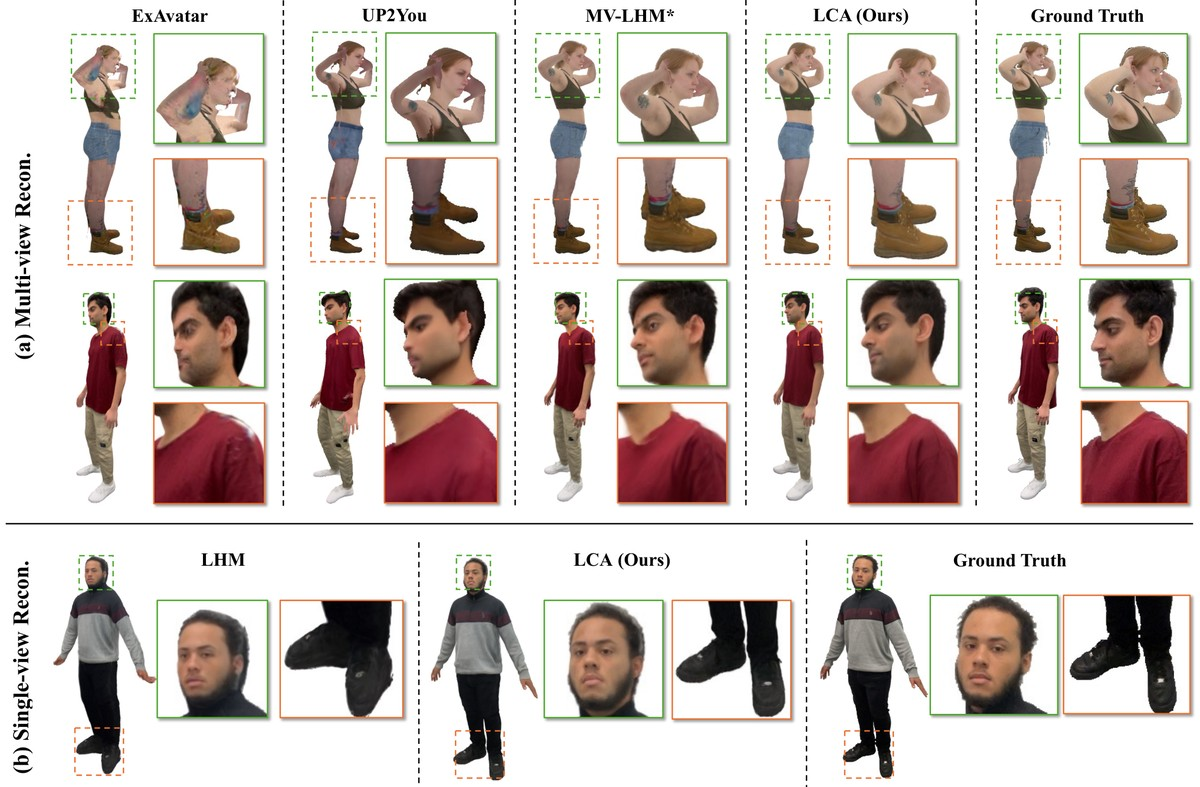
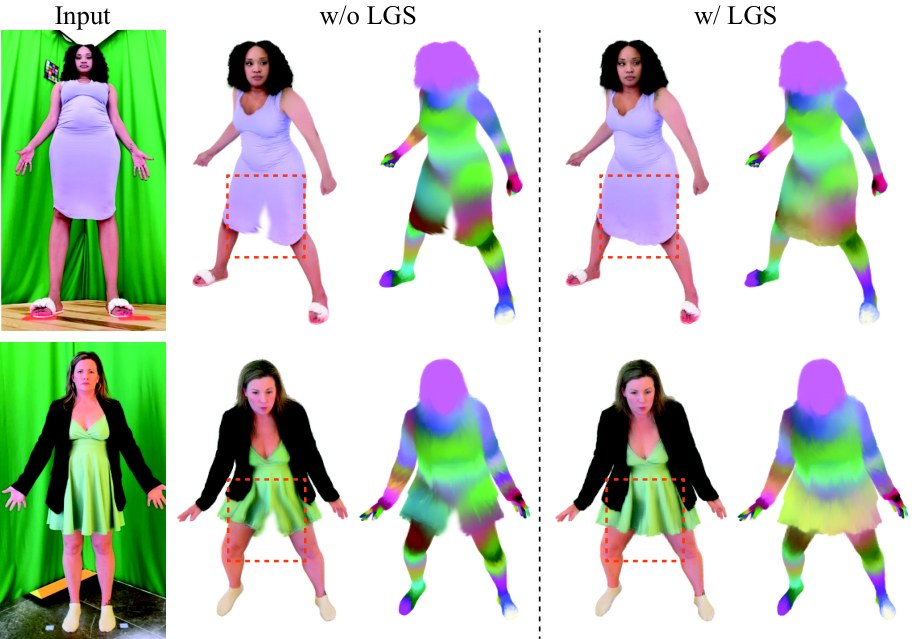
Underline own name (Zhongshi) in publication authors, LCA Gaussian deformer image (single-subject friendly)

diff --git a/layouts/partials/page_metadata_authors.html b/layouts/partials/page_metadata_authors.html
@@ -1,52 +1,54 @@
-{{/* Display author list. Only truncate for LCA (too many authors), keep others full */}}
+{{/* Display author list. Only truncate for LCA, keep others full, underscore (underline) self */}}
 {{- $taxonomy := "authors" }}
 {{- $isLCA := false }}
-{{- if .File }}
-  {{- if in .File.Path "large-scale-codec-avatars" }}{{- $isLCA = true }}{{- end }}
+{{- if .File }}{{ if in .File.Path "large-scale-codec-avatars" }}{{ $isLCA = true }}{{ end }}{{ end }}
+{{- if in .Title "Large-scale Codec Avatars" }}{{ $isLCA = true }}{{ end }}
+{{- if in (.Params.title | default "") "Large-scale Codec Avatars" }}{{ $isLCA = true }}{{ end }}
+
+{{- $isMe := false }}
+{{- $checkMe := func -}}
+{{- /* helper inline: check if string is me */ -}}
 {{- end }}
-{{- if in .Title "Large-scale Codec Avatars" }}{{- $isLCA = true }}{{- end }}
-{{- if in (.Params.title | default "") "Large-scale Codec Avatars" }}{{- $isLCA = true }}{{- end }}
 
 {{- if .Param $taxonomy }}
   {{- $terms := .GetTerms $taxonomy }}
   {{- $n := len $terms }}
   {{- if and $isLCA (gt $n 6) }}
-    {{- /* LCA special: show first 3 + et al. */}}
     {{- range $i, $author := first 3 $terms }}
-      {{- $highlight_name := .Page.Params.highlight_name | default false -}}
-      {{- if gt $i 0 }}, {{ end -}}
-      <span {{ if $highlight_name }}class="author-highlighted"{{end}}>
-        {{- if .RelPermalink -}}<a href="{{.RelPermalink}}">{{.LinkTitle}}</a>{{- else -}}{{ .LinkTitle }}{{- end -}}
+      {{- $highlight_name := .Page.Params.highlight_name | default false }}
+      {{- $name := .LinkTitle }}
+      {{- $isMeTerm := in $name "Zhongshi" }}
+      {{- if gt $i 0 }}, {{ end }}
+      <span {{ if $highlight_name }}class="author-highlighted"{{ end }} {{ if $isMeTerm }}style="text-decoration: underline; text-underline-offset: 3px;"{{ end }}>
+        {{- if .RelPermalink }}<a href="{{.RelPermalink}}" {{ if $isMeTerm }}style="text-decoration: underline; text-underline-offset: 3px;"{{ end }}>{{.LinkTitle}}</a>{{- else }}{{ if $isMeTerm }}<u>{{.LinkTitle}}</u>{{ else }}{{.LinkTitle}}{{ end }}{{- end }}
       </span>
-    {{- end -}}
-    <span>, et al.</span>
+    {{- end }}<span>, et al.</span>
   {{- else if gt $n 0 }}
     {{- range $index, $value := $terms }}
-      {{- $highlight_name := .Page.Params.highlight_name | default false -}}
-      {{- if gt $index 0 }}, {{ end -}}
-      <span {{ if $highlight_name }}class="author-highlighted"{{end}}>
-        {{- if .RelPermalink -}}<a href="{{.RelPermalink}}">{{.LinkTitle}}</a>{{- else -}}{{ .LinkTitle }}{{- end -}}
+      {{- $highlight_name := .Page.Params.highlight_name | default false }}
+      {{- $name := .LinkTitle }}
+      {{- $isMeTerm := in $name "Zhongshi" }}
+      {{- if gt $index 0 }}, {{ end }}
+      <span {{ if $highlight_name }}class="author-highlighted"{{ end }} {{ if $isMeTerm }}style="text-decoration: underline; text-underline-offset: 3px;"{{ end }}>
+        {{- if .RelPermalink }}<a href="{{.RelPermalink}}" {{ if $isMeTerm }}style="text-decoration: underline; text-underline-offset: 3px;"{{ end }}>{{ $name }}</a>{{- else }}{{ if $isMeTerm }}<u>{{ $name }}</u>{{ else }}{{ $name }}{{ end }}{{- end }}
       </span>
-      {{- if isset $.Params "author_notes" -}}
-        {{- with (index $.Params.author_notes $index) -}}<i class="author-notes fas fa-info-circle" data-toggle="tooltip" title="{{.}}"></i>{{- end -}}
-      {{- end -}}
-    {{- end -}}
+      {{- if isset $.Params "author_notes" }}{{ with (index $.Params.author_notes $index) }}<i class="author-notes fas fa-info-circle" data-toggle="tooltip" title="{{.}}"></i>{{ end }}{{ end }}
+    {{- end }}
   {{- else }}
-    {{/* fallback to raw authors param when terms empty */}}
     {{- with .Params.authors }}
       {{- $n2 := len . }}
       {{- if and $isLCA (gt $n2 6) }}
-        {{- range $i, $a := first 3 . }}{{ if gt $i 0 }}, {{ end }}<span>{{ $a | markdownify | plainify }}</span>{{ end }}<span>, et al.</span>
+        {{- range $i, $a := first 3 . }}{{ $isMeA := in $a "Zhongshi" }}{{ if gt $i 0 }}, {{ end }}<span {{ if $isMeA }}style="text-decoration:underline; text-underline-offset:3px;"{{ end }}>{{ if $isMeA }}<u>{{ $a | markdownify | plainify }}</u>{{ else }}{{ $a | markdownify | plainify }}{{ end }}</span>{{ end }}<span>, et al.</span>
       {{- else }}
-        {{- range $i, $a := . }}{{ if gt $i 0 }}, {{ end }}<span>{{ $a | markdownify | plainify }}</span>{{ end }}
+        {{- range $i, $a := . }}{{ $isMeA := in $a "Zhongshi" }}{{ if gt $i 0 }}, {{ end }}<span {{ if $isMeA }}style="text-decoration:underline; text-underline-offset:3px;"{{ end }}>{{ if $isMeA }}<u>{{ $a | markdownify | plainify }}</u>{{ else }}{{ $a | markdownify | plainify }}{{ end }}</span>{{ end }}
       {{- end }}
     {{- end }}
   {{- end }}
 {{- else if .Params.authors }}
   {{- $n2 := len .Params.authors }}
   {{- if and $isLCA (gt $n2 6) }}
-    {{- range $i, $a := first 3 .Params.authors }}{{ if gt $i 0 }}, {{ end }}<span>{{ $a | markdownify | plainify }}</span>{{ end }}<span>, et al.</span>
+    {{- range $i, $a := first 3 .Params.authors }}{{ $isMeA := in $a "Zhongshi" }}{{ if gt $i 0 }}, {{ end }}<span {{ if $isMeA }}style="text-decoration:underline; text-underline-offset:3px;"{{ end }}>{{ if $isMeA }}<u>{{ $a | markdownify | plainify }}</u>{{ else }}{{ $a | markdownify | plainify }}{{ end }}</span>{{ end }}<span>, et al.</span>
   {{- else }}
-    {{- range $i, $a := .Params.authors }}{{ if gt $i 0 }}, {{ end }}<span>{{ $a | markdownify | plainify }}</span>{{ end }}
+    {{- range $i, $a := .Params.authors }}{{ $isMeA := in $a "Zhongshi" }}{{ if gt $i 0 }}, {{ end }}<span {{ if $isMeA }}style="text-decoration:underline; text-underline-offset:3px;"{{ end }}>{{ if $isMeA }}<u>{{ $a | markdownify | plainify }}</u>{{ else }}{{ $a | markdownify | plainify }}{{ end }}</span>{{ end }}
   {{- end }}
 {{- end }}
